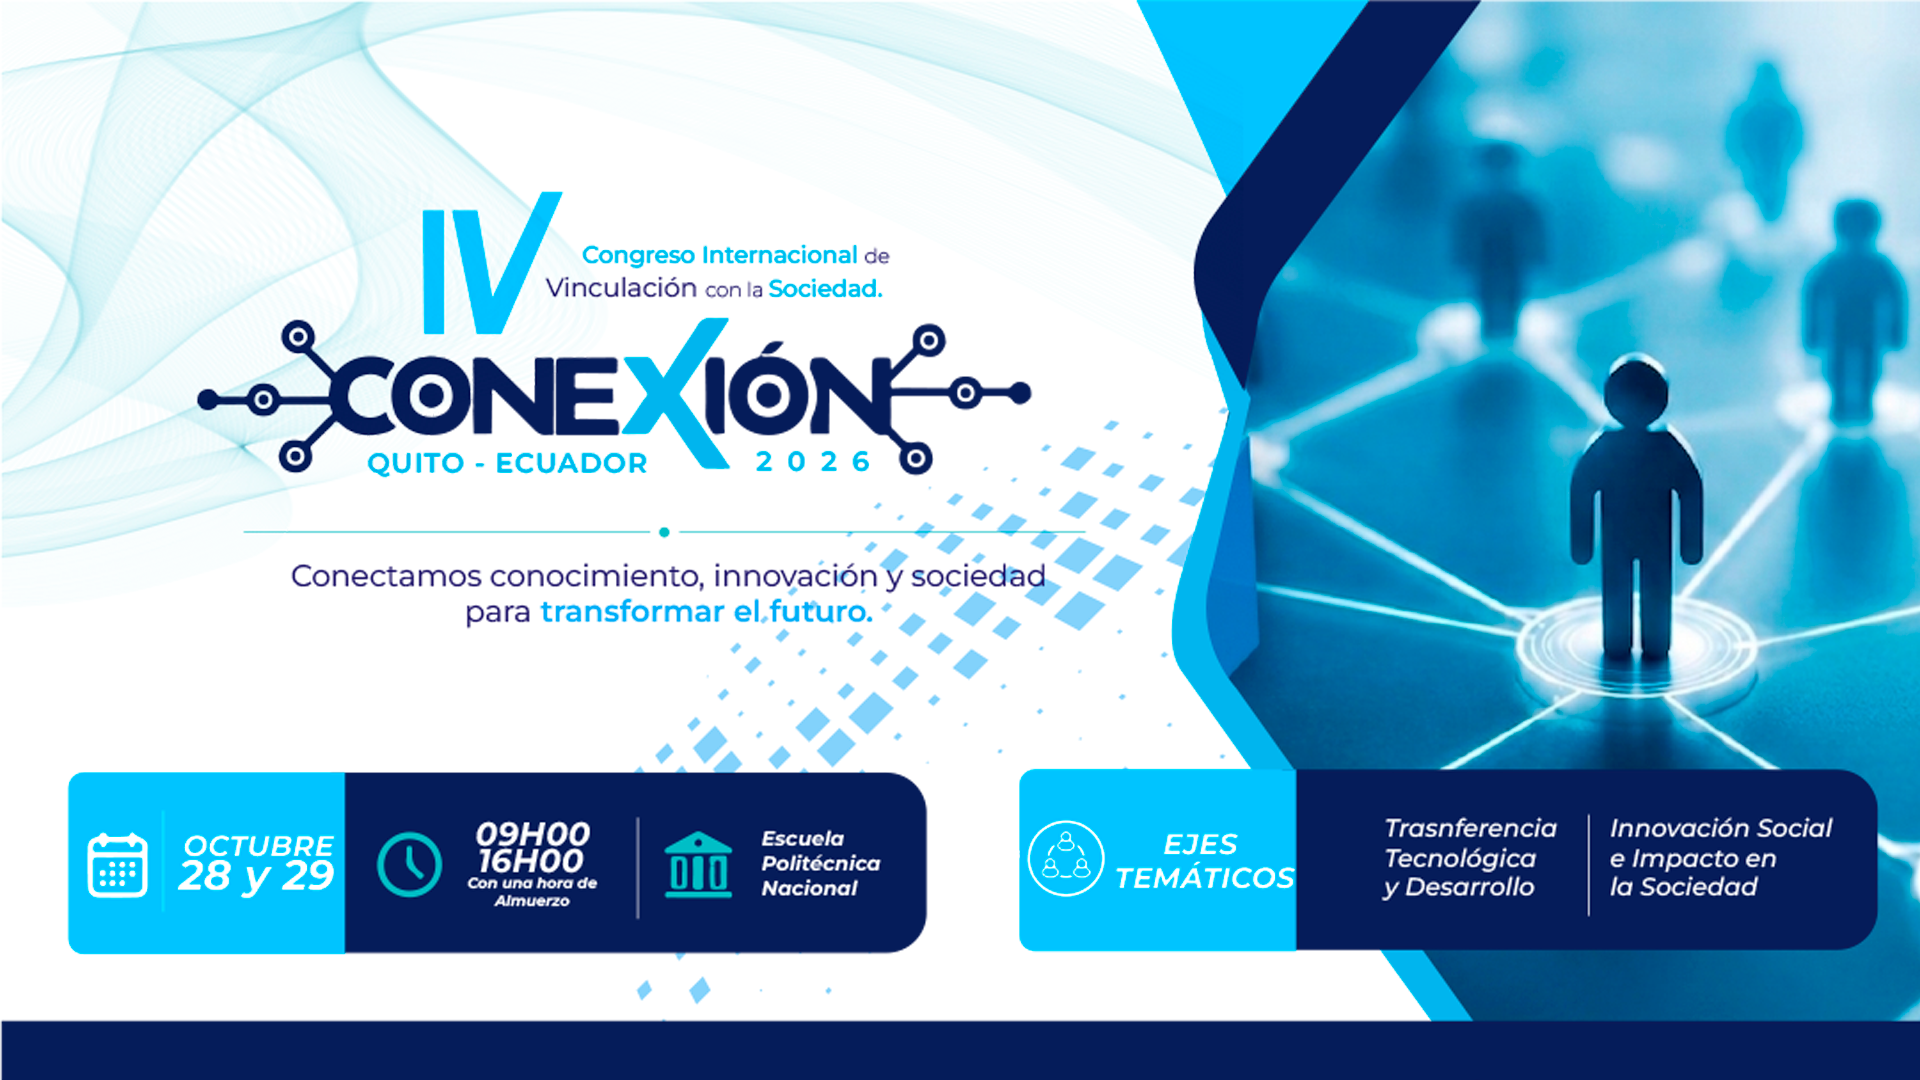
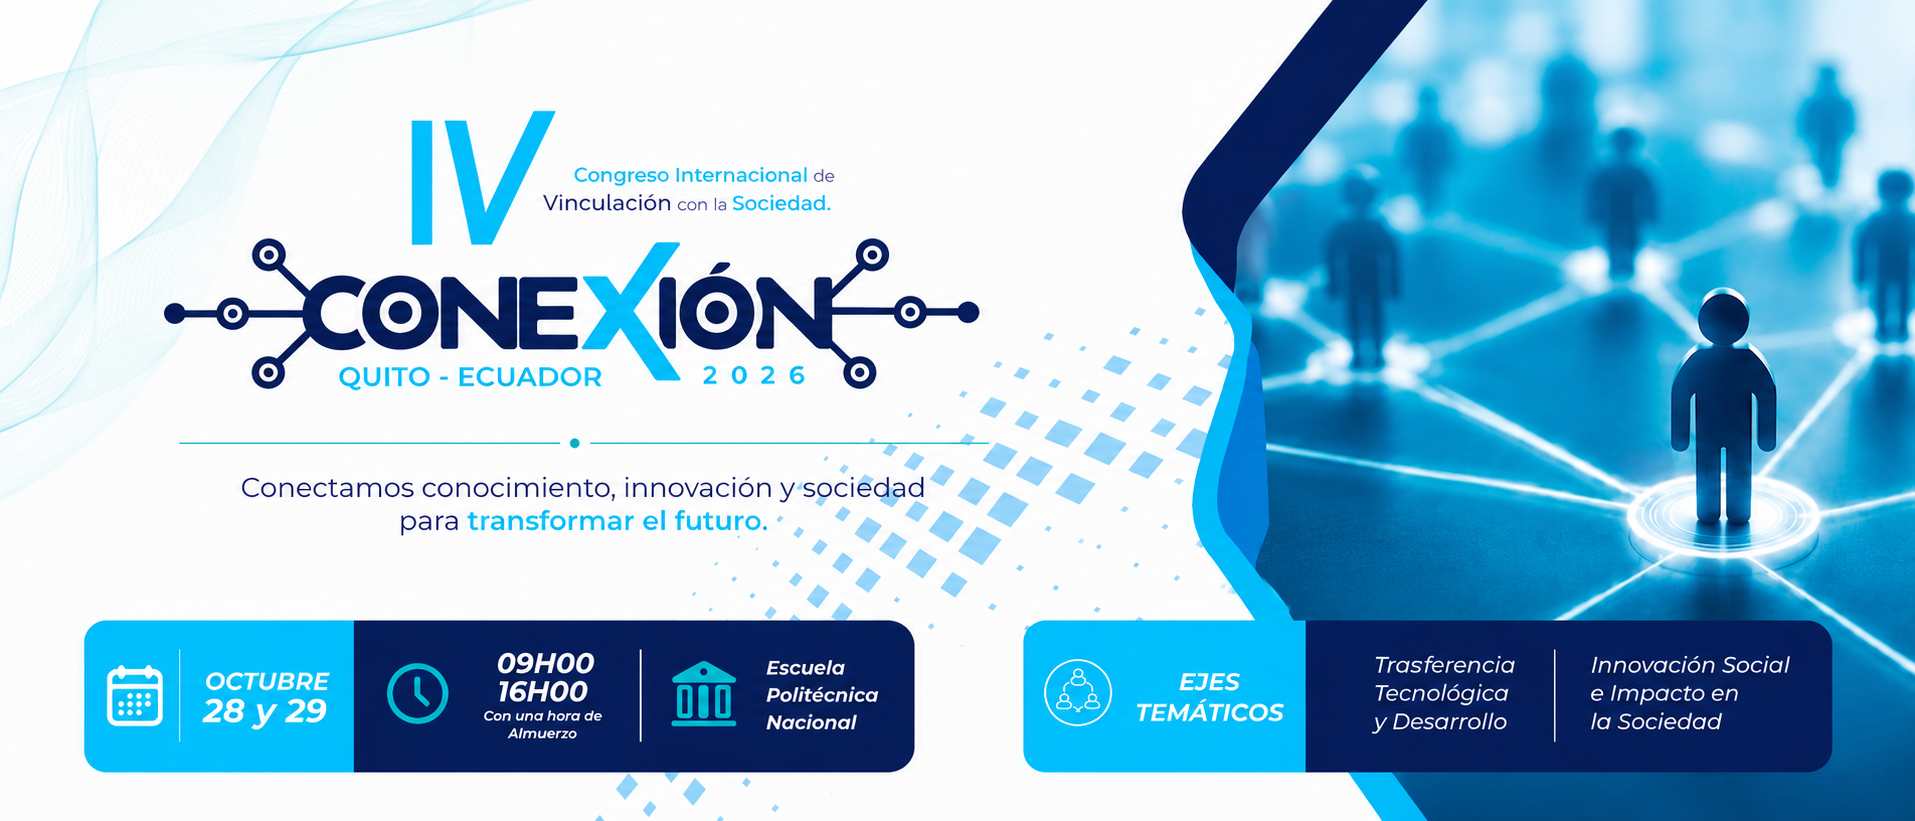
fix: New hero images

diff --git a/src/app/agenda/page.tsx b/src/app/agenda/page.tsx
@@ -176,9 +176,6 @@ const CongresosAgendaPage = () => {
                   <th className="px-4 py-4 text-left font-semibold text-gray-900 md:px-6">
                     Tema
                   </th>
-                  <th className="px-4 py-4 text-left font-semibold text-gray-900 md:px-6">
-                    Ponente / Responsable
-                  </th>
                 </tr>
               </thead>
               <tbody>
@@ -198,9 +195,6 @@ const CongresosAgendaPage = () => {
                       </td>
                       <td className="px-4 py-4 text-sm text-gray-600 md:px-6">
                         {activity.theme}
-                      </td>
-                      <td className="px-4 py-4 text-sm text-gray-600 md:px-6">
-                        {activity.speaker}
                       </td>
                     </tr>
                   )
